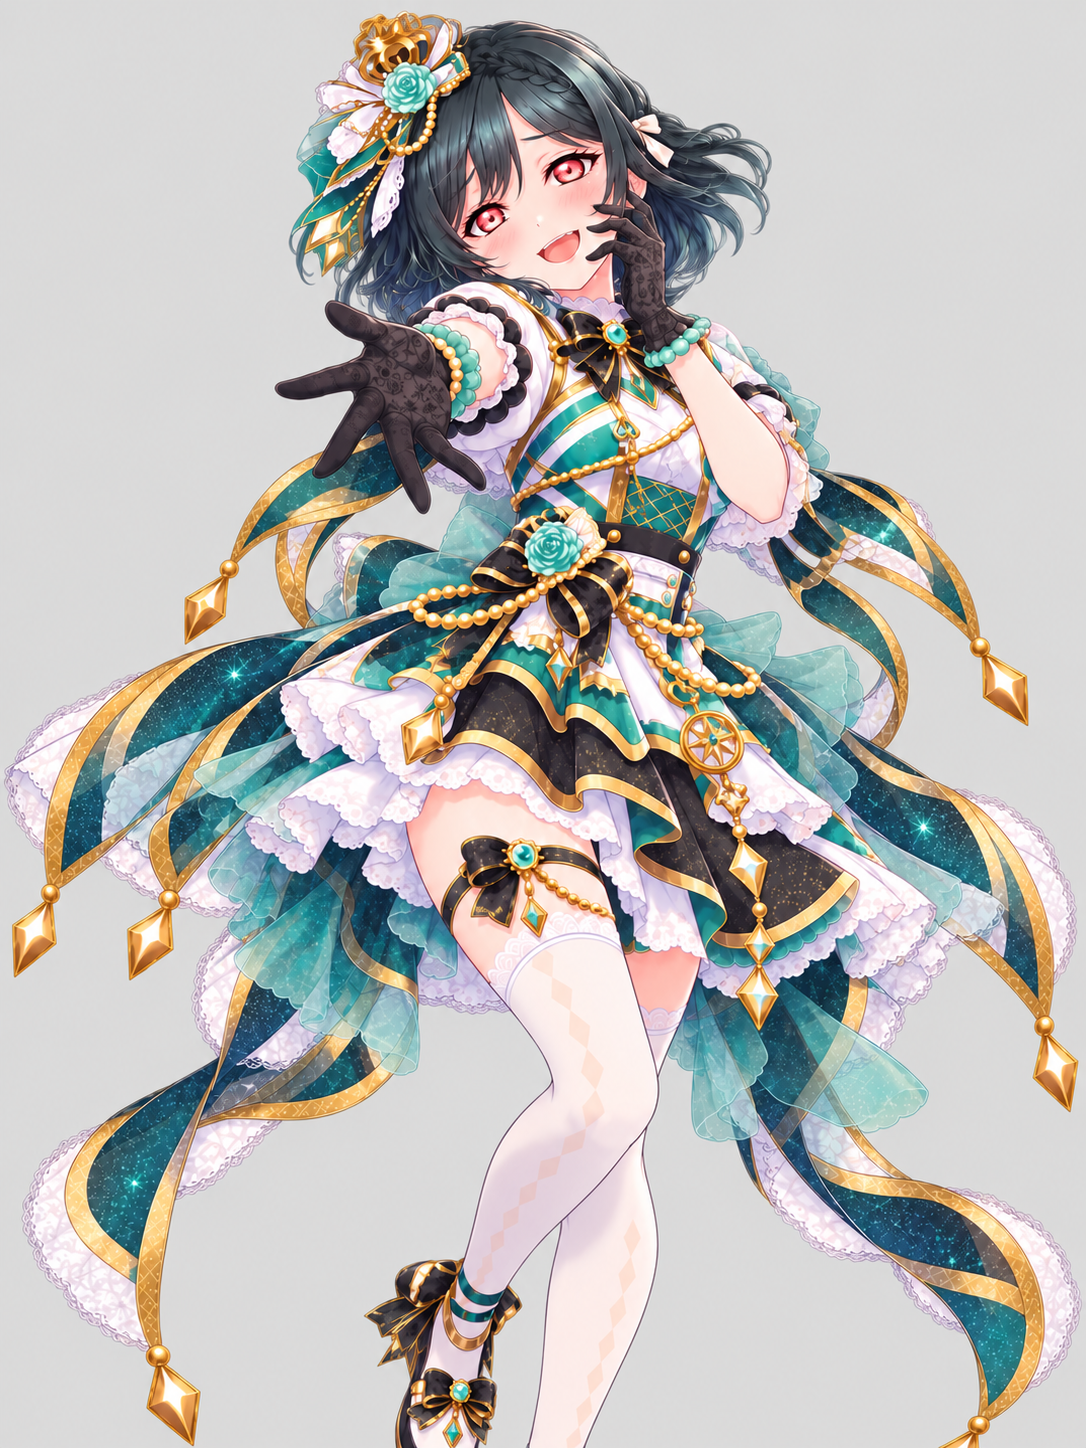
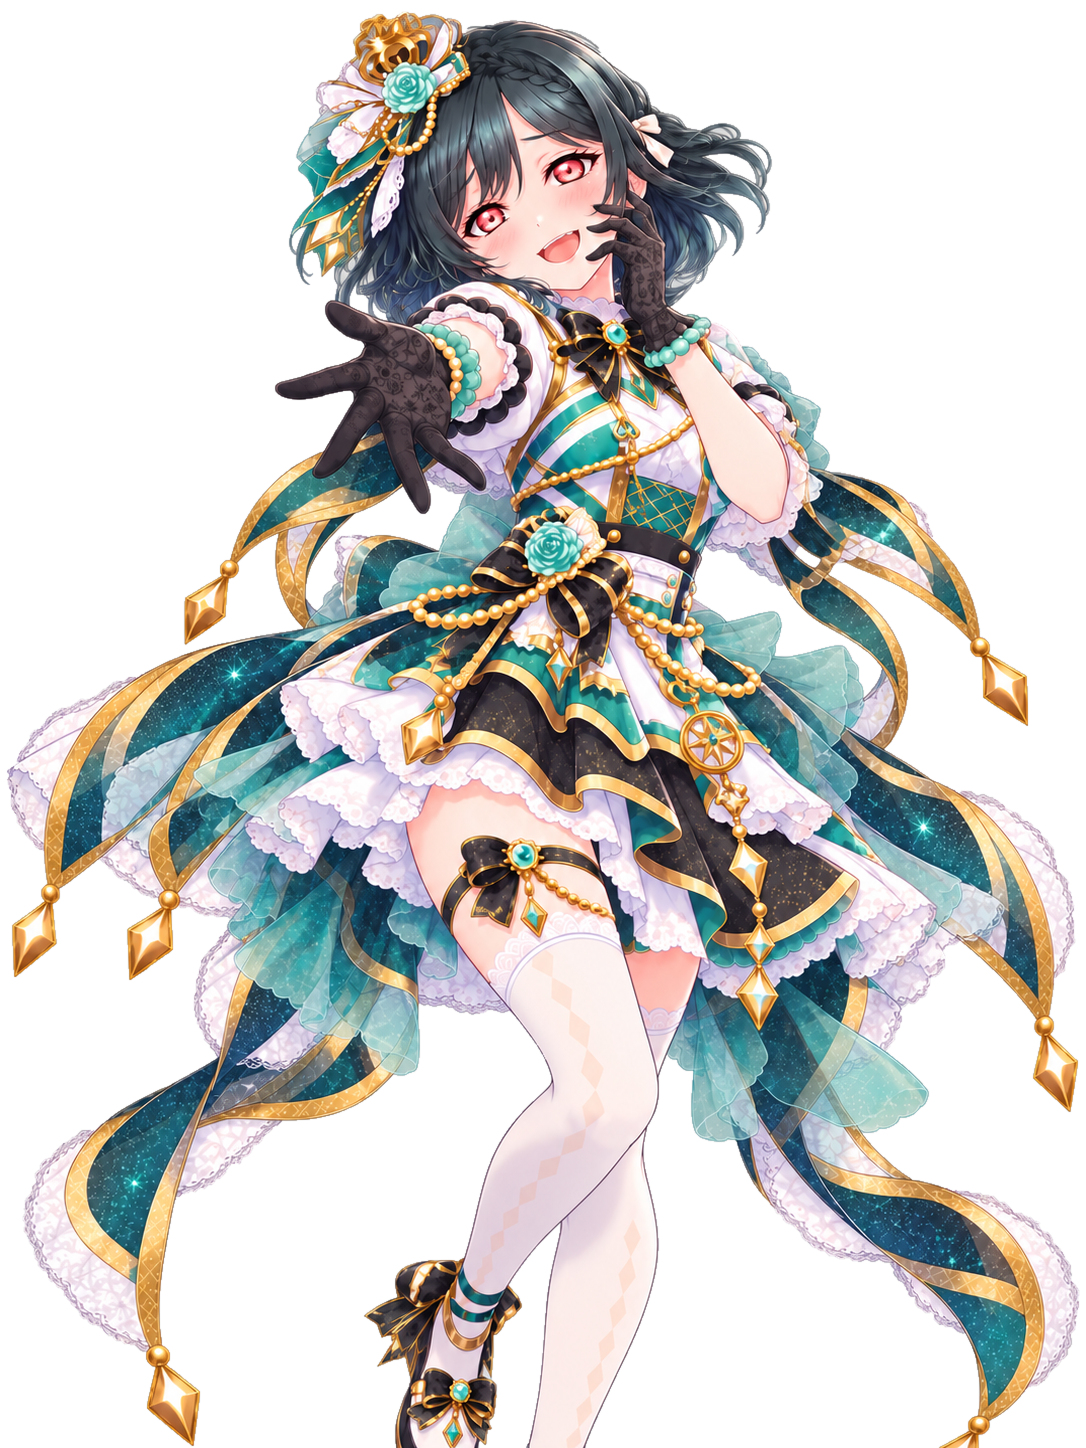
Make secret-mode sprites transparent and simplify home styles

diff --git a/home-cutout-v084.js b/home-cutout-v084.js
@@ -13,14 +13,12 @@
     clumsy:`assets/home-characters/shioriko/clumsy.png?v=${VERSION}-pngset1`,
     casual:`assets/home-characters/shioriko/casual.png?v=${VERSION}-pngset1`
   };
-  // Persisted IDs keep their original generation: latest is now the official
-  // set; current (and the historical new alias) remains the previous set.
+  // Classic keeps the historical normal and its existing expression fallback.
   const ART_SETS={
-    current:PREVIOUS_ART,
-    latest:Object.fromEntries(VALID.map(mode=>[
-      mode,`assets/home-characters/shioriko/new/${mode}.png?v=${VERSION}-homeart9`
+    stage:Object.fromEntries(VALID.map(mode=>[
+      mode,`assets/home-characters/shioriko/new/${mode}.png?v=${VERSION}-${mode==='normal'?'homeart9':'homeart10'}`
     ])),
-    legacy:{normal:`assets/home-characters/shioriko/normal-v0814.png?v=${VERSION}-homeart4`}
+    classic:{...PREVIOUS_ART,normal:`assets/home-characters/shioriko/normal-v0814.png?v=${VERSION}-homeart4`}
   };
   const MENU={
     homeLiveBtn:`assets/home-ui/live.png?v=${VERSION}`,
@@ -59,14 +57,16 @@
     return VALID.includes(m)?m:'normal';
   };
   const normalizeHomeArt=(value)=>{
-    if(value===null) return 'latest';
-    if(value==='latest'||value==='current'||value==='legacy') return value;
-    if(value==='old') return 'legacy';
-    if(value==='new') return 'current';
-    return 'current';
+    const aliases={stage:'stage',latest:'stage',current:'stage',new:'stage',classic:'classic',old:'classic',legacy:'classic'};
+    return Object.prototype.hasOwnProperty.call(aliases,value)?aliases[value]:'stage';
   };
-  const getHomeArt=()=>normalizeHomeArt(localStorage.getItem(HOME_ART_KEY));
-  const getArtSrc=(mode)=>ART_SETS[getHomeArt()][mode] || ART_SETS.current[mode];
+  const getHomeArt=()=>{
+    const saved=localStorage.getItem(HOME_ART_KEY);
+    const style=normalizeHomeArt(saved);
+    if(saved!==null&&saved!==style)localStorage.setItem(HOME_ART_KEY,style);
+    return style;
+  };
+  const getArtSrc=(mode)=>ART_SETS[getHomeArt()][mode];
 
   const applyMode=(mode)=>{
     const m=VALID.includes(mode)?mode:'normal';
@@ -90,15 +90,15 @@
     style.id='homeArtSelectorStyle';
     style.textContent=`
       /* Use the approved normal framing for the entire official set. */
-      @media (orientation:landscape){.home-screen .home-character-cutout-v084[data-art-set="latest"]{bottom:-101px!important}}
-      @media (orientation:landscape) and (max-height:620px){.home-screen .home-character-cutout-v084[data-art-set="latest"]{bottom:-105px!important}}
+      @media (orientation:landscape){.home-screen .home-character-cutout-v084[data-art-set="stage"]{bottom:-101px!important}}
+      @media (orientation:landscape) and (max-height:620px){.home-screen .home-character-cutout-v084[data-art-set="stage"]{bottom:-105px!important}}
       /* The final yandere source has more empty space above the head. */
-      @media (orientation:landscape){.home-screen .home-character-cutout-v084[data-art-set="latest"][data-mode="yandere"]{bottom:-71px!important}}
-      @media (orientation:landscape) and (max-height:620px){.home-screen .home-character-cutout-v084[data-art-set="latest"][data-mode="yandere"]{bottom:-75px!important}}
+      @media (orientation:landscape){.home-screen .home-character-cutout-v084[data-art-set="stage"][data-mode="yandere"]{bottom:-71px!important}}
+      @media (orientation:landscape) and (max-height:620px){.home-screen .home-character-cutout-v084[data-art-set="stage"][data-mode="yandere"]{bottom:-75px!important}}
       .home-art-selector{margin:0 0 16px;padding:14px;border:1px solid #374151;border-radius:14px;background:#111827}
       .home-art-selector h2{margin:0 0 5px;font-size:17px}
       .home-art-selector p{margin:0 0 12px;color:#94a3b8;font-size:12px;line-height:1.5}
-      .home-art-options{display:grid;grid-template-columns:repeat(3,minmax(0,1fr));gap:12px;max-width:760px}
+      .home-art-options{display:grid;grid-template-columns:repeat(2,minmax(0,1fr));gap:12px;max-width:760px}
       .home-art-option{appearance:none;border:2px solid #374151;border-radius:14px;background:#0b1220;padding:8px;color:#f8fafc;cursor:pointer;text-align:left;transition:border-color .12s,box-shadow .12s,transform .12s}
       .home-art-option:active{transform:scale(.985)}
       .home-art-option.is-selected{border-color:#38bdf8;box-shadow:0 0 0 3px rgba(56,189,248,.18)}
@@ -112,22 +112,21 @@
     const wrap=document.createElement('section');
     wrap.id='homeArtSelector';
     wrap.className='home-art-selector';
-    wrap.innerHTML=`<h2>ホーム立ち絵</h2><p>現在の立ち絵・以前の立ち絵・Ver.0.8.14から選べます。選択はこの端末に保存されます。</p><div class="home-art-options"></div><div class="home-art-current"></div>`;
+    wrap.innerHTML=`<h2>ホームスタイル</h2><p>ホームでの衣装スタイルを選べます。</p><div class="home-art-options"></div><div class="home-art-current"></div>`;
     const options=wrap.querySelector('.home-art-options');
     const status=wrap.querySelector('.home-art-current');
     const defs=[
-      {id:'latest',label:'現在の立ち絵',src:ART_SETS.latest.normal},
-      {id:'current',label:'以前の立ち絵',src:ART_SETS.current.normal},
-      {id:'legacy',label:'Ver.0.8.14',src:ART_SETS.legacy.normal}
+      {id:'stage',label:'ステージスタイル',src:ART_SETS.stage.normal},
+      {id:'classic',label:'クラシックスタイル',src:ART_SETS.classic.normal}
     ];
-    const labelFor=(id)=>defs.find(def=>def.id===id)?.label||'以前の立ち絵';
+    const labelFor=(id)=>defs.find(def=>def.id===id)?.label||'ステージスタイル';
     const refresh=()=>{
       const selected=getHomeArt();
       wrap.querySelectorAll('.home-art-option').forEach(btn=>{
         btn.classList.toggle('is-selected',btn.dataset.art===selected);
         btn.setAttribute('aria-pressed',String(btn.dataset.art===selected));
       });
-      status.textContent=`現在：${labelFor(selected)}`;
+      status.textContent=`選択中：${labelFor(selected)}`;
     };
     defs.forEach(def=>{
       const btn=document.createElement('button');
@@ -174,6 +173,7 @@
 
   Object.entries(MENU).forEach(([id,src])=>{
     const el=document.getElementById(id);
-    if(el && el.tagName==='IMG') el.src=src;
+    const img=el?.tagName==='IMG'?el:el?.querySelector('.home-menu-art');
+    if(img) img.src=src;
   });
 })();

diff --git a/index.html b/index.html
@@ -156,7 +156,7 @@ window.location.replace(url.toString());
 <script src="input-fix-v077.js?v=0.8.20-input2"></script>
 <script src="song-select-v082.js?v=0.8.2"></script>
 <script src="home-transparent-v083.js?v=0.8.20-version1"></script>
-<script src="home-cutout-v084.js?v=0.8.20-homeart9"></script>
+<script src="home-cutout-v084.js?v=0.8.20-homeart10"></script>
 <script src="home-branding-v085.js?v=0.8.5"></script>
 </body>
 </html>
